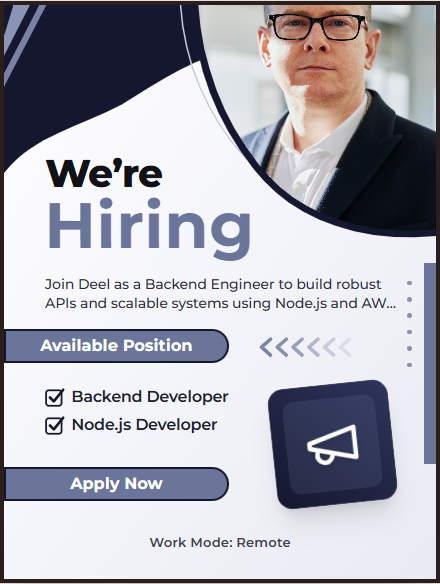
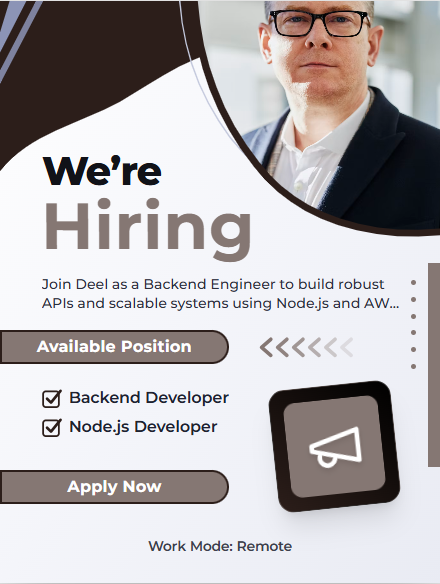
fix the img chnage color logic of evry post

diff --git a/Job-Post-Design/Design-Template/index.html b/Job-Post-Design/Design-Template/index.html
@@ -15,11 +15,6 @@
       theme: {
         extend: {
           fontFamily: { sans: ['Montserrat', 'ui-sans-serif', 'system-ui', 'sans-serif'] },
-          colors: {
-            navy: '#15172e',
-            slate2: '#6b7499',
-            ink: '#111218',
-          },
         },
       },
     };
@@ -28,13 +23,14 @@
 
 <body class="min-h-screen bg-neutral-200 flex items-center justify-center p-4 font-sans">
 
-  <!-- ===== JOB POST CARD CONTAINER (Targeted for dynamic color_code injection) ===== -->
+  <!-- ===== JOB POST CARD CONTAINER (CSS Variables defined here) ===== -->
   <main
     id="job-post-card"
+    style="--primary-color: #15172e; --secondary-color: #6b7499; --primary-dark: #0a0c18;"
     class="relative w-[min(92vw,440px)] aspect-[370/490] overflow-hidden bg-gradient-to-br from-white via-[#f4f5fa] to-[#e9ebf3] shadow-2xl [container-type:inline-size]"
   >
 
-    <!-- ===== TOP DECOR: navy wave, stripes, photo (FULL BLEED LEFT TO RIGHT) ===== -->
+    <!-- ===== TOP DECOR: dynamic wave, stripes, photo ===== -->
     <svg class="absolute inset-0 w-full h-full pointer-events-none" viewBox="0 0 367 520" preserveAspectRatio="none" xmlns="http://www.w3.org/2000/svg" aria-hidden="true">
       <defs>
         <clipPath id="photoClip">
@@ -42,8 +38,8 @@
         </clipPath>
       </defs>
 
-      <!-- navy wave (top-left) -->
-      <path d="M0,0 H205 V42 C165,42 132,70 100,90 C65,110 25,118 0,152 Z" fill="#15172e" />
+      <!-- Dynamic Wave (top-left) -->
+      <path id="top-wave" d="M0,0 H205 V42 C165,42 132,70 100,90 C65,110 25,118 0,152 Z" fill="var(--primary-color)" />
       <!-- diagonal light stripes -->
       <polygon points="8,0 22,0 0,46 0,28" fill="#8c94b6" />
       <polygon points="30,0 36,0 0,74 0,62" fill="#8c94b6" opacity=".85" />
@@ -59,34 +55,33 @@
         preserveAspectRatio="xMidYMid slice"
         clip-path="url(#photoClip)"
       />
-      <!-- navy border on the curved photo edge -->
-      <path d="M162,0 C166,62 186,108 214,146 C250,196 310,212 367,206" fill="none" stroke="#15172e" stroke-width="6" stroke-linecap="round" />
+      <!-- Border on the curved photo edge -->
+      <path id="photo-border" d="M162,0 C166,62 186,108 214,146 C250,196 310,212 367,206" fill="none" stroke="var(--primary-color)" stroke-width="6" stroke-linecap="round" />
     </svg>
 
     <!-- ===== HEADING (Static Branding) ===== -->
-    <h1 class="absolute left-[9.5%] top-[26%] text-[9cqw] leading-none font-extrabold text-ink tracking-tight">
+    <h1 class="absolute left-[9.5%] top-[26%] text-[9cqw] leading-none font-extrabold text-[#111218] tracking-tight">
       We’re
     </h1>
-    <h2 class="absolute left-[9.3%] top-[33%] text-[14.8cqw] leading-none font-bold text-slate2 tracking-[0.01em]">
+    <h2 id="hiring-text" style="color: var(--secondary-color);" class="absolute left-[9.3%] top-[33%] text-[14.8cqw] leading-none font-bold tracking-[0.01em]">
       Hiring
     </h2>
 
-
-    <!-- ===== JOB SUMMARY PARAGRAPH (Dynamic Insertion Point) ===== -->
+    <!-- ===== JOB SUMMARY PARAGRAPH ===== -->
     <p id="job-summary" class="absolute left-[9.5%] top-[47%] w-[82%] text-[3.2cqw] leading-[1.38] font-medium text-[#2b2d3a] line-clamp-2">
       Job summary placeholder text goes here...
     </p>
 
     <!-- ===== PILL: AVAILABLE POSITION ===== -->
-    <div class="absolute left-0 top-[56.5%] w-[52%] h-[5.8%] rounded-r-full bg-navy p-[2px]">
-      <div class="h-full w-full rounded-r-full bg-slate2 flex items-center justify-center px-2">
+    <div id="pill-1" style="background-color: var(--primary-color);" class="absolute left-0 top-[56.5%] w-[52%] h-[5.8%] rounded-r-full p-[2px]">
+      <div id="pill-1-inner" style="background-color: var(--secondary-color);" class="h-full w-full rounded-r-full flex items-center justify-center px-2">
         <span class="text-[3.6cqw] font-bold text-white tracking-wide">Available Position</span>
       </div>
     </div>
 
     <!-- ===== CHEVRONS ===== -->
     <svg class="absolute left-[58.5%] top-[57.8%] w-[24%]" viewBox="0 0 92 18" fill="none" xmlns="http://www.w3.org/2000/svg" aria-hidden="true">
-      <g stroke="#7b84a8" stroke-width="3.2" stroke-linecap="round" stroke-linejoin="round">
+      <g id="chevrons-group" stroke="var(--secondary-color)" stroke-width="3.2" stroke-linecap="round" stroke-linejoin="round">
         <path d="M12 2 L4 9 L12 16" opacity="1" />
         <path d="M26 2 L18 9 L26 16" opacity=".9" />
         <path d="M40 2 L32 9 L40 16" opacity=".75" />
@@ -96,39 +91,39 @@
       </g>
     </svg>
 
-    <!-- ===== CHECKLIST TAGS (Dynamic List Container) ===== -->
+    <!-- ===== CHECKLIST TAGS ===== -->
     <ul id="job-tags" class="absolute left-[9.5%] top-[66.5%] flex flex-col gap-[2cqw]">
       <li class="flex items-center gap-[1.5cqw]">
-        <svg class="w-[4.6cqw] h-[4.6cqw] shrink-0" viewBox="0 0 18 18" fill="none" aria-hidden="true">
-          <rect x="1" y="3" width="14" height="14" rx="2.5" stroke="#15172e" stroke-width="1.6" />
-          <path d="M4.5 9.5 L8 13 L16.5 2.5" stroke="#15172e" stroke-width="2.4" stroke-linecap="round" stroke-linejoin="round" />
+        <svg class="w-[4.6cqw] h-[4.6cqw] shrink-0 checkbox-svg" viewBox="0 0 18 18" fill="none" aria-hidden="true">
+          <rect x="1" y="3" width="14" height="14" rx="2.5" stroke="var(--primary-color)" stroke-width="1.6" />
+          <path d="M4.5 9.5 L8 13 L16.5 2.5" stroke="var(--primary-color)" stroke-width="2.4" stroke-linecap="round" stroke-linejoin="round" />
         </svg>
-        <span class="tag-1 text-[3.6cqw] font-semibold text-[#1f2130] leading-none">Tag One</span>
+        <span class="text-[3.6cqw] font-semibold text-[#1f2130] leading-none">Tag One</span>
       </li>
      
       <li class="flex items-center gap-[1.5cqw]">
-        <svg class="w-[4.6cqw] h-[4.6cqw] shrink-0" viewBox="0 0 18 18" fill="none" aria-hidden="true">
-          <rect x="1" y="3" width="14" height="14" rx="2.5" stroke="#15172e" stroke-width="1.6" />
-          <path d="M4.5 9.5 L8 13 L16.5 2.5" stroke="#15172e" stroke-width="2.4" stroke-linecap="round" stroke-linejoin="round" />
+        <svg class="w-[4.6cqw] h-[4.6cqw] shrink-0 checkbox-svg" viewBox="0 0 18 18" fill="none" aria-hidden="true">
+          <rect x="1" y="3" width="14" height="14" rx="2.5" stroke="var(--primary-color)" stroke-width="1.6" />
+          <path d="M4.5 9.5 L8 13 L16.5 2.5" stroke="var(--primary-color)" stroke-width="2.4" stroke-linecap="round" stroke-linejoin="round" />
         </svg>
-        <span class="tag-2 text-[3.6cqw] font-semibold text-[#1f2130] leading-none">Tag Two</span>
+        <span class="text-[3.6cqw] font-semibold text-[#1f2130] leading-none">Tag Two</span>
       </li>
     </ul>
 
     <!-- ===== RIGHT EDGE BAR + DOTS ===== -->
-    <div class="absolute right-0 top-[45%] h-[35%] w-[2.7%] bg-slate2"></div>
+    <div id="right-bar" style="background-color: var(--secondary-color);" class="absolute right-0 top-[45%] h-[35%] w-[2.7%]"></div>
     <div class="absolute left-[93.4%] top-[48%] flex flex-col gap-[2.7cqw]">
-      <span class="block w-[1.1cqw] h-[1.1cqw] rounded-full bg-[#8c91a8]"></span>
-      <span class="block w-[1.1cqw] h-[1.1cqw] rounded-full bg-[#8c91a8]"></span>
-      <span class="block w-[1.1cqw] h-[1.1cqw] rounded-full bg-[#8c91a8]"></span>
-      <span class="block w-[1.1cqw] h-[1.1cqw] rounded-full bg-[#8c91a8]"></span>
-      <span class="block w-[1.1cqw] h-[1.1cqw] rounded-full bg-[#8c91a8]"></span>
-      <span class="block w-[1.1cqw] h-[1.1cqw] rounded-full bg-[#8c91a8]"></span>
+      <span style="background-color: var(--secondary-color);" class="block w-[1.1cqw] h-[1.1cqw] rounded-full dot-item"></span>
+      <span style="background-color: var(--secondary-color);" class="block w-[1.1cqw] h-[1.1cqw] rounded-full dot-item"></span>
+      <span style="background-color: var(--secondary-color);" class="block w-[1.1cqw] h-[1.1cqw] rounded-full dot-item"></span>
+      <span style="background-color: var(--secondary-color);" class="block w-[1.1cqw] h-[1.1cqw] rounded-full dot-item"></span>
+      <span style="background-color: var(--secondary-color);" class="block w-[1.1cqw] h-[1.1cqw] rounded-full dot-item"></span>
+      <span style="background-color: var(--secondary-color);" class="block w-[1.1cqw] h-[1.1cqw] rounded-full dot-item"></span>
     </div>
 
     <!-- ===== CARD ACCENT GRAPHIC ===== -->
-    <div class="absolute left-[62%] top-[66%] w-[28%] aspect-square rounded-2xl bg-gradient-to-tr from-[#15172e] to-[#2e355c] p-[3cqw] shadow-xl flex items-center justify-center -rotate-6 border border-white/20">
-      <div class="w-full h-full rounded-xl bg-[#6b7499]/20 flex items-center justify-center backdrop-blur-sm">
+    <div id="accent-box" style="background: linear-gradient(to top right, var(--primary-color), var(--primary-dark));" class="absolute left-[62%] top-[66%] w-[28%] aspect-square rounded-2xl p-[3cqw] shadow-xl flex items-center justify-center -rotate-6 border border-white/20">
+      <div id="accent-box-inner" style="background-color: var(--secondary-color);" class="w-full h-full rounded-xl bg-opacity-20 flex items-center justify-center backdrop-blur-sm">
         <svg xmlns="http://www.w3.org/2000/svg" class="w-[65%] h-[65%] text-white drop-shadow-md" viewBox="0 0 24 24" fill="none" stroke="currentColor" stroke-width="1.8" stroke-linecap="round" stroke-linejoin="round">
           <path d="m3 11 18-5v12L3 13v-2z"/>
           <path d="M11.6 16.8 a 3 3 0 1 1 -5.8-1.6"/>
@@ -137,13 +132,13 @@
     </div>
 
     <!-- ===== PILL: APPLY NOW ===== -->
-    <div class="absolute left-0 top-[80.5%] w-[52%] h-[5.8%] rounded-r-full bg-navy p-[2px]">
-      <div class="h-full w-full rounded-r-full bg-slate2 flex items-center justify-center px-2">
+    <div id="pill-2" style="background-color: var(--primary-color);" class="absolute left-0 top-[80.5%] w-[52%] h-[5.8%] rounded-r-full p-[2px]">
+      <div id="pill-2-inner" style="background-color: var(--secondary-color);" class="h-full w-full rounded-r-full flex items-center justify-center px-2">
         <span class="text-[3.6cqw] font-bold text-white tracking-wide">Apply Now</span>
       </div>
     </div>
 
-    <!-- ===== FOOTER WORK LOCATION (Dynamic Insertion Point) ===== -->
+    <!-- ===== FOOTER WORK LOCATION ===== -->
     <p class="absolute left-0 right-0 top-[92.5%] text-center text-[3.1cqw] font-semibold text-[#3d3f4d] leading-none">
       Work Mode: <span id="work-location">Remote</span>
     </p>

diff --git a/Job-Post-Design/path-finder.py b/Job-Post-Design/path-finder.py
@@ -39,7 +39,7 @@ def process_and_capture_jobs():
             "job_summary": job.get("job_summary", ""),
             "tags": job.get("tags", []),
             "work_location": job.get("workplace_type", "Not specified"),
-            "color_code": job.get("color_code", "#A0AEC0")
+            "color_code": job.get("color_code", "#15172e")
         }
         extracted_posts.append(post_item)
 
@@ -47,24 +47,22 @@ def process_and_capture_jobs():
     chunk_size = 5
     batched_posts = [extracted_posts[i:i + chunk_size] for i in range(0, len(extracted_posts), chunk_size)]
 
-    # Ensure output directory exists and save to Post-data.json
     os.makedirs(os.path.dirname(OUTPUT_JSON_FILE), exist_ok=True)
     with open(OUTPUT_JSON_FILE, "w", encoding="utf-8") as f:
         json.dump(batched_posts, f, indent=4, ensure_ascii=False)
 
     print(f"Successfully processed {len(extracted_posts)} jobs into batches of 5 and saved to '{OUTPUT_JSON_FILE}'")
 
-    # --- STEP 2: Launch local Chrome browser and capture dynamic job cards ---
+    # --- STEP 2: Launch local Chrome browser and capture dynamic colored job cards ---
     if not HTML_TEMPLATE_PATH.exists():
         print(f"Error: Could not find HTML template at '{HTML_TEMPLATE_PATH}'")
         return
 
     os.makedirs(OUTPUT_IMG_DIR, exist_ok=True)
 
-    print(f"\n--- Starting Dynamic Job Post Image Generator ({len(extracted_posts)} total jobs) ---")
+    print(f"\n--- Starting Dynamic Colored Job Post Image Generator ({len(extracted_posts)} total jobs) ---")
 
     with sync_playwright() as p:
-        # Launch local system Chrome to bypass download blocks
         browser = p.chromium.launch(channel="chrome", headless=True)
         page = browser.new_page()
 
@@ -78,19 +76,15 @@ def process_and_capture_jobs():
                 summary = job.get("job_summary", "")
                 tags = job.get("tags", [])
                 work_location = job.get("work_location", "Remote")
-                color_code = job.get("color_code", "#A0AEC0")
+                color_code = job.get("color_code", "#15172e")
 
-                print(f"[{global_idx}/{len(extracted_posts)}] Processing & Capturing: {title}...")
+                print(f"[{global_idx}/{len(extracted_posts)}] Processing & Capturing: {title} (Color: {color_code})...")
 
-                # Securely format local Windows file path into a file:// URI
                 page.goto(HTML_TEMPLATE_PATH.as_uri(), wait_until="domcontentloaded")
 
-                # Inject dynamic job data and color code directly into the DOM
+                # Inject dynamic job data and color codes via CSS Variables into the DOM
                 page.evaluate(
                     """({ title, summary, tags, workLocation, colorCode }) => {
-                        const titleEl = document.getElementById('job-title');
-                        if (titleEl) titleEl.innerText = title;
-
                         const summaryEl = document.getElementById('job-summary');
                         if (summaryEl) summaryEl.innerText = summary;
 
@@ -99,16 +93,45 @@ def process_and_capture_jobs():
 
                         const tagsContainer = document.getElementById('job-tags');
                         if (tagsContainer && tags && tags.length > 0) {
-                            const tagSpans = tagsContainer.querySelectorAll('span');
+                            const items = tagsContainer.querySelectorAll('li');
                             tags.forEach((tag, i) => {
-                                if (tagSpans[i]) tagSpans[i].innerText = tag;
+                                if (items[i]) {
+                                    const span = items[i].querySelector('span');
+                                    if (span) span.innerText = tag;
+                                    items[i].style.display = 'flex';
+                                }
                             });
+                            for (let j = tags.length; j < items.length; j++) {
+                                items[j].style.display = 'none';
+                            }
                         }
 
+                        // Helper to lighten/darken hex colors for secondary accents
+                        function adjustColor(hex, percent) {
+                            if (!hex || !hex.startsWith('#')) return '#6b7499';
+                            let num = parseInt(hex.replace("#",""), 16);
+                            let amt = Math.round(2.55 * percent);
+                            let R = (num >> 16) + amt;
+                            let G = (num >> 8 & 0x00FF) + amt;
+                            let B = (num & 0x0000FF) + amt;
+                            return "#" + (
+                                0x1000000 +
+                                (R<255?(R<0?0:R):255)*0x10000 +
+                                (G<255?(G<0?0:G):255)*0x100 +
+                                (B<255?(B<0?0:B):255)
+                            ).toString(16).slice(1);
+                        }
+
+                        const primaryColor = colorCode || '#15172e';
+                        const secondaryColor = adjustColor(primaryColor, 35); // Lighter accent tint
+                        const primaryDark = adjustColor(primaryColor, -20); // Darker shade for gradients
+
+                        // Set CSS variables on the main card container
                         const card = document.getElementById('job-post-card');
                         if (card) {
-                            card.style.borderColor = colorCode;
-                            card.style.borderWidth = '4px';
+                            card.style.setProperty('--primary-color', primaryColor);
+                            card.style.setProperty('--secondary-color', secondaryColor);
+                            card.style.setProperty('--primary-dark', primaryDark);
                         }
                     }""",
                     {
@@ -116,28 +139,25 @@ def process_and_capture_jobs():
                         "summary": summary,
                         "tags": tags,
                         "workLocation": work_location,
-                        "colorCode": color_code,
+                        "colorCode": color_code,  # FIX: key must match JS destructuring name
                     },
                 )
 
-                # Target the main card container and ensure visibility
                 job_card = page.locator("#job-post-card")
                 job_card.wait_for(state="visible", timeout=15000)
 
                 safe_title = sanitize_filename(title)
                 output_image_path = os.path.join(OUTPUT_IMG_DIR, f"{global_idx}_{safe_title}.png")
 
-                # Capture clean screenshot of the card
                 job_card.screenshot(path=output_image_path)
                 print(f"  ✓ Saved image to: {output_image_path}")
 
-                # 2-second pause between queries
                 time.sleep(2)
                 global_idx += 1
 
         browser.close()
 
-    print(f"\nDone! All data processed and card images generated successfully.")
+    print(f"\nDone! All dynamic colored job card images generated successfully.")
 
 
 if __name__ == "__main__":
